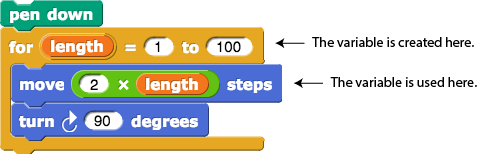
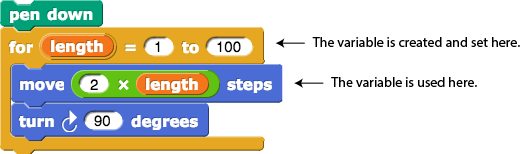
U1 - intro to vars cleanup per AC
intro to variables cleanup, addressing AC ruthless suggestions, clearing out old comments

diff --git a/cur/programming/1-introduction/3-drawing/6-the-for-block.html b/cur/programming/1-introduction/3-drawing/6-the-for-block.html
@@ -45,29 +45,33 @@
             <p>Computer scientists describe a repeating program structure as <em>looping</em>, <em>repetition</em>, or <strong>iteration</strong>.</p>
         </div>
 
-        <div class="takeNote">Sequencing (following steps in order), selection (deciding), and iteration (repeating) are building blocks of algorithms.  (See <a href="/bjc-r/cur/programming/1-introduction/2-gossip-and-greet/4-learning-names.html?topic=nyc_bjc%2F1-intro-loops.topic&course=bjc4nyc.html&novideo&noassignment#AP" title="Learning Player Names">Unit 1 Lab 2 Page 4: Learning Player Names </a> for a review of sequencing and selection.)</div>
+        <div class="takeNote">
+            <div class="todo">Brian wants to make this gray, but Mary doesn't want to make every EK gray... --MF, 1/31/19</div>
+            Sequencing (following steps in order), selection (deciding), and iteration (repeating) are building blocks of algorithms.  (See <a href="/bjc-r/cur/programming/1-introduction/2-gossip-and-greet/4-learning-names.html?topic=nyc_bjc%2F1-intro-loops.topic&course=bjc4nyc.html&novideo&noassignment#AP" title="Learning Player Names">Unit 1 Lab 2 Page 4: Learning Player Names </a> for a review of sequencing and selection.)
+        </div>
 
 
         <p>
-        	You can use <img src="/bjc-r/img/prog/for.png" class="imageCenter" alt="for(i)=(1) to (10){}" title="for(i)=(1) to (10){}" /> to name a variable (the default is <img class="inline" src="/bjc-r/img/blocks/variable-i.png" alt="i" title="i" />) that counts each repetition, and you can use that counter  variable in the repeating script. For example, the <code>for</code> block lets you simplify long scripts like: <br /> 
-            <div class="sidenote">Each time the <code>for</code> block  runs the script inside, it changes the value of the  variable by 1, counting from the first input number to the second.</div>   
+            Sometimes the script inside a loop needs to know which time through the loop it's in (first, second, etc.).
+            You can use <img src="/bjc-r/img/prog/for.png" class="imageCenter" alt="for(i)=(1) to (10){}" title="for(i)=(1) to (10){}" /> to keep track, and you can use its counter (the default name is <img class="inline" src="/bjc-r/img/blocks/variable-i.png" alt="i" title="i" />) in the repeated script. For example, the <code>for</code> block lets you simplify long scripts like: <br /> 
             <img class="indent" src="/bjc-r/img/looping/for-loop-equivalent.png" alt="say (1) for (2) secs, say (2) for (2) secs, say (3) for (2) secs... say (10) for (2) secs" title="say (1) for (2) secs, say (2) for (2) secs, say (3) for (2) secs... say (10) for (2) secs" />  
             &nbsp; &nbsp; &nbsp; to  
-            <img class=" noshadow" src="/bjc-r/img/looping/for-loop-drag-i.gif" alt="for (i)= (1) to (10) {say (i) for (2) secs}" title="for (i)= (1) to (10) {say (i) for (2) secs"} /> 
+            <img class="noshadow" src="/bjc-r/img/looping/for-loop-drag-i.gif" alt="for (i)= (1) to (10) {say (i) for (2) secs}" title="for (i)= (1) to (10) {say (i) for (2) secs}" /> 
 		</p>
+        <p>Each time the <code>for</code> block  runs the script inside, it changes the value of the counter by 1, beginning with the first input number and ending after the second.</p>   
 		
 
         <div class="endnote">
             <p class="center"><img class="inline" src="/bjc-r/img/icons/import-tools.png" alt="Import Tools" title="Import Tools" /></p>
-            In the current version of <span class="snap">snap</span>, the <code>for</code> block isn't installed automatically.  You'll need to import tools once into each new <span class="snap">snap</span> project where you need <code>for</code> and some other important tools. <br />
-          <img class="indent" src="/bjc-r/img/1-introduction/import-tools.png" alt="select 'Import tools' from the Snap! file menu" title="select 'Import tools' from the Snap! file menu" />
+            In the current version of <span class="snap">snap</span>, the <code>for</code> block isn't installed automatically.  You'll need to import tools once into each new <span class="snap">snap</span> project where you need <code>for</code> or some other important tools. <br />
+            <img class="indent" src="/bjc-r/img/1-introduction/import-tools.png" alt="select 'Import tools' from the Snap! file menu" title="select 'Import tools' from the Snap! file menu" />
         </div>
         
         
         <div class="forYouToDo" id="first">
             <ol>
                 <li>Click on the File <img src="/bjc-r/img/sys/button-file-menu.png" class="inline" style="height:1.7em;" alt="File menu icon" title="File menu icon" /> menu at the top of the <span class="snap">snap</span> window and select "Import Tools."</li>
-				<div class="takeNote">The <code>for</code> block gives you a default variable, <var>i</var> (for index). You can change the name of this variable by clicking it. Once changed, drag it out and use it  just like any variable.</div>
+                <div class="takeNote">The <code>for</code> block gives you a default counter name, <var>i</var> (for index). You can change this name by clicking it. To use the counter, drag it into the script.</div>
                 <li>
                 	Build this script that makes the sprite say the numbers 1 through 10. <br />
                 	<img class="indent" src="/bjc-r/img/1-introduction/for-i-1-10-say-i.png" alt="for (i) = (1) to (10) {say (i) for (2) secs}" title="for (i) = (1) to (10) {say (i) for (2) secs}" />
@@ -147,11 +151,10 @@
                             <img class="indent" src="/bjc-r/img/1-introduction/inspi-tests.png" alt="inspi with (1000,10,80), (1000,5,1), (1000,5,7), (1000,5,13), (1000,10,77)" title="inspi with (1000,10,80), (1000,5,1), (1000,5,7), (1000,5,13), (1000,10,77)" />
                         </li>
                         <!--<li>What's going on? Can you work out a theory to predict anything about the shape it draws for a particular angle input? <a id="hintbutton" onClick="document.getElementById('hintbutton').innerHTML='Think about divisibility.';">(Don't click unless you really, really need a super big hint.)</a></li>-->
-                        <li>What's going on? Can you work out a theory to predict anything about the shape it draws for a particular angle input? <a href="#hint-1" data-toggle="collapse" class="collapsed" title="Hint">(Don't click unless you need a big hint.)</a>
-          <div id="hint-1" class="collapse">
-             Hint: Think about divisibility.
-          </div></li>
-                        
+                        <li>
+                            What's going on? Can you work out a theory to predict anything about the shape it draws for a particular angle input? <a href="#hint-1" data-toggle="collapse" class="collapsed" title="Hint">(Don't click unless you need a big hint.)</a>
+                            <div id="hint-1" class="collapse">Hint: Think about divisibility.</div>
+                        </li>
                     </ol>
                 </li>  
             </ol>

diff --git a/cur/programming/1-introduction/3-drawing/3-blocks-with-inputs.html b/cur/programming/1-introduction/3-drawing/3-blocks-with-inputs.html
@@ -10,34 +10,12 @@
 	</head>
     
 	<body>
-    <div class="todo">
-        ST EK List:<br />
-        
-        2.2.1 Develop an abstraction when writing a program or creating other computational artifacts. [P2]<br />
-        2.2.1A The process of developing an abstraction involves removing detail and generalizing functionality.<br />
-        2.2.1B An abstraction extracts common features from specific examples in order to generalize concepts. <br />
-        2.2.1C An abstraction generalizes functionality with input parameters that allow software reuse.<br />
-        5.3.1D Procedures have names and may have parameters and return values.<br />
-        5.4.1G Examples of intended behavior on specific inputs help people understand what a program is supposed to do. <br />
-        
-        MF: 1.2.4 Collaborate in the creation of computational artifacts. [P6]<br />
-		
-        5.1.2D Program documentation helps programmers develop and maintain correct programs to efficiently solve problems. (with documentation)	<br />
-		5.1.2E Documentation about program components, such as segments and procedures, helps in developing and maintaining programs. (with documentation)<br />
-		5.1.2F Documentation helps in developing and maintaining programs when working individually or in collaborative programming environments. (with documentation)<br />
-        
-        </div>
         <h2>Blocks with Inputs</h2>
         <div class="todo">
             <h3>Ruthless Suggestions from Al</h3>
             <ul>
-                <li>In # 2, a: “Type the block name and the label for your variable”. As far as I can see, this is the first use of the word “variable.” Can we just use “input?”</li>
-                <ul>
-                  <li>Good catch! This should be carefully resolved. --MF, 5/16/18</li></ul>
-                <li>In # 2, a: The two bullets below the figs can be [← One way to save time is to texture the emphases; a good way to do this is to demote matters of convention.] demoted to sidenotes.</li>
-                <ul><li>Agreed, though I'd prefer one sidenote (singular). --MF, 5/16/18</li></ul>
                 <li>Before we said that a TiF is hard. We should discuss what “hard” means. But this one seems like a ITT to me.</li>
-                <ul><li>Again, this is on our list for 6/5/18 discussion. --MF, 5/16/18</li></ul>
+                <ul><li>TIF is actually not possible at this point in the course and has been commented out until we fix that. --MF, 1/31/19 (with Brian)</li></ul>
             </ul>
         </div>
         <div class="learn">
@@ -83,15 +61,15 @@
                         <h4><strong>Making a Block with an Input</strong></h4>
                         <ol type="a">
                             <li>
-                                <strong>Type the block name and the label for your variable</strong> in the "Make a block" dialog box, and click OK. For this project, type <code>pinwheel, branches:</code><br />
+                                <strong>Type the block name and the label for your input</strong> in the "Make a block" dialog box, and click OK. For this project, type <code>pinwheel, branches:</code><br />
                                 <img class="indent" src="/bjc-r/img/1-introduction/Blockswith-Inputs_img/category.png" height="300" alt="Make a block" title="Make a block"/>
-                                <ul>
-                                    <li>This block is about <em>moving</em> your sprite, so you might choose the blue Motion palette. Or just leave it gray.</li>
-                                    <li>Using a comma and a colon are not requirements; they are here to help with clarity.</li>
-                                </ul>
+                                <div class="endnote">
+                                    <p>This block is about <em>moving</em> your sprite, so you might choose the blue Motion palette. Or just leave it gray.</p>
+                                    <p>Using a comma and a colon are not requirements; they are here to help with clarity.</p>
+                                </div>
                             </li>
                             <li>
-                                <strong>Click the + (plus sign) after "<code>branches:</code>", type the name of the input</strong>, and click OK to add the variable input slot. For <code>pinwheel</code>, click the + after "branches:" and type <var>number of branches</var> as the name of your input variable.<br />
+                                <strong>Click the + (plus sign) after "<code>branches:</code>", type the name of the input</strong>, and click OK to add the input slot. For <code>pinwheel</code>, click the + after "branches:" and type <var>number of branches</var> as the name of your input.<br />
                                 <img class="indent" src="/bjc-r/img/1-introduction/Blockswith-Inputs_img/plusSign.png" height="75" alt="Plus sign" title="Plus sign" />
                                 <img class="indent" src="/bjc-r/img/1-introduction/Blockswith-Inputs_img/inputName.png" height="175" alt="Creat input name" title="Create input name" />
                             </li>
@@ -142,6 +120,7 @@
         </div>
 
 
+        <div class="todo">Solution file has <code>pinwheel</code> version from later page in TIF. Solutions need careful review. Also these TIFs can't be done at this point in the curriculum. TG and solutions file need to match whatever is done. --MF, 1/31/19
         <div class="takeItFurther">
             <ol type="A">
                 <li>
@@ -152,6 +131,7 @@
                 </li>
                 <li>Make the animation at the top of this page.</li>
             </ol>
+        </div>
         </div>
 
 

diff --git a/cur/programming/1-introduction/3-drawing/4-modify-your-pinwheel.html b/cur/programming/1-introduction/3-drawing/4-modify-your-pinwheel.html
@@ -36,7 +36,7 @@
         </div>
         
         <h3>Adding Multiple Inputs</h3>
-        <p>Recall how you first <em>generalized</em> your original pinwheel script: you added an input variable called <var>branches</var> that controlled the turning angle of the sprite. By adding <em>more</em> input variables, you can generalize other aspects of your program...</p>
+        <p>Recall how you first <em>generalized</em> your original pinwheel script: you added an input called <var>branches</var> that controlled the turning angle of the sprite. By adding <em>more</em> inputs, you can generalize other aspects of your program...</p>
         <div class="forYouToDo" id="first">
 			<ol>
                 <li>If it isn't already open, open your U1L3-Pinwheel project.</li>
@@ -58,16 +58,14 @@
                 	</ol>
                 </li>
                 <li>
-               	  <div class="sidenote">Review how to add an input at <a href="/bjc-r/cur/programming/1-introduction/3-drawing/3-blocks-with-inputs.html?topic=nyc_bjc%2F1-intro-loops.topic&course=bjc4nyc.html&novideo&noassignment" title="Blocks with Inputs">Unit 1 Lab 3 Page 3: Blocks with Input</a>, if needed.</div>
-                    Add a <em>second input variable</em> to control the amount of "backing up" that the sprite does before each turn through the full 360&deg;.
+                    <div class="sidenote">Review how to add an input at <a href="/bjc-r/cur/programming/1-introduction/3-drawing/3-blocks-with-inputs.html?topic=nyc_bjc%2F1-intro-loops.topic&course=bjc4nyc.html&novideo&noassignment" title="Blocks with Inputs">Unit 1 Lab 3 Page 3: Blocks with Input</a>, if needed.</div>
+                    Add a <em>second input</em> to control the amount of "backing up" that the sprite does before each turn through the full 360&deg;.
                 	<ol>
-                    <!--<li>First, go to the Settings menu (<img class="inline" src="/bjc-r/img/1-introduction/settings_button.png" alt="Settings menu icon" title="Settings menu icon" />), and make sure that "Plain prototype labels" are <em>un-checked</em>. (This will allow you to see the "+" signs in the next step.)</li>-->
-						
                         <li>Edit your <code>pinwheel</code> block, then click the "+" sign at the end to add an input <strong>label</strong> (<strong>choose "Title text"</strong>). Type <code>backup:</code> as shown below, and click "OK".</li>
                         <img class="indent" src="/bjc-r/img/1-introduction/create-input-name.jpg" alt="typing 'backup:' as Title text into Block Editor's Create input name window" title="typing 'backup:' as Title text into Block Editor's Create input name window" />
-                        <li>Then click the "+" sign at the end <em>again</em> to add an input <strong>variable</strong> (<strong>choose "Input name"</strong>), and call it <var>backup</var>.</li>
-                        <li>Drag off the new <var>backup</var> variable, place it where it belongs in the <code>pinwheel</code> code, and press "OK" or "Apply."</li>
-                        <li>Check that changing the <var>backup</var> input when running the <code>pinwheel</code> block gives the correct result. Debug any problems.</li>
+                        <li>Then click the "+" sign at the end <em>again</em> to add an input (choose "Input name"), and call it <var>backup</var>.</li>
+                        <li>Drag off the new <var>backup</var> input, place it where it belongs in the <code>pinwheel</code> code, and press "OK" or "Apply."</li>
+                        <li>Check that changing the <var>backup</var> input value when running the <code>pinwheel</code> block gives the correct result. Debug any problems.</li>
                     </ol>
                 </li>
 	            <div class="sidenote">Use an Operator block.</div>
@@ -77,9 +75,8 @@
         
         <img class="inline" src="/bjc-r/img/icons/pair-programming-swap.png" alt="Pair Programming Swap" title="Pair Programming Swap" /> 
         
-         <div class="takeNote">
+        <div class="takeNote">
             <h4><strong>Debugging Tip: Organizing Your Code</strong></h4>
-            
             <p>
                 A great way to avoid having bugs in your program in the first place is to keep your code organized by deleting any unused blocks to avoid clutter. Here are examples of messy code and neatly organized code with comments. <br />
                 <img class="indent" src="/bjc-r/img/1-introduction/messy-code.png" width="550" alt="Example of messy code with loose scripts all over the place." title="Example of messy code with loose scripts all over the place."/>

diff --git a/cur/programming/1-introduction/3-drawing/5-remix-your-pinwheel.html b/cur/programming/1-introduction/3-drawing/5-remix-your-pinwheel.html
@@ -10,16 +10,7 @@
 	</head>
 
 	<body>
-    <div class="todo">
-        ST EK List:<br />
-        1.2.3A Creating computational artifacts can be done by combining and modifying existing artifacts or by creating new artifacts. <br />
-        5.3.1 Use abstraction to manage complexity in programs. [P3]<br />
-        5.3.1E Parameterization can generalize a specific solution.<br />
-        5.3.1F Parameters generalize a solution by allowing a function to be used instead of duplicated code.<br />
-        5.3.1G Parameters provide different values as input to procedures when they are called in a program. <br />
-        MF: 1.2.4 Collaborate in the creation of computational artifacts. [P6]
-        </div>
-		<h2>Remix Your Pinwheel</h2>
+        <h2>Remix Your Pinwheel</h2>
         <div class="todo">
             <h3>Ruthless Suggestions from Al</h3>
             <ul>
@@ -53,7 +44,7 @@
                 <li>
                     Use your <code>pinwheel</code> block to create a more specialized <code>asterisk</code> block.
                     <ol>
-                        <li>First, make a new block called <code>asterisk</code> with two variables: one for the <var>number of branches</var> and one for the <var>length</var> of each branch.  You may wish to review how to make a new block at <a href="/bjc-r/cur/programming/1-introduction/2-gossip-and-greet/3-making-a-new-block.html?topic=nyc_bjc%2F1-intro-loops.topic&course=bjc4nyc.html&novideo&noassignment" title="Making Your Own Block">Unit 1 Lab 2 Page 3: Making Your Own Block</a>.</li>
+                        <li>First, make a new block called <code>asterisk</code> with two inputs: one for the <var>number of branches</var> and one for the <var>length</var> of each branch.  You may wish to review how to make a new block at <a href="/bjc-r/cur/programming/1-introduction/2-gossip-and-greet/3-making-a-new-block.html?topic=nyc_bjc%2F1-intro-loops.topic&course=bjc4nyc.html&novideo&noassignment" title="Making Your Own Block">Unit 1 Lab 2 Page 3: Making Your Own Block</a>.</li>
                   <img src="/bjc-r/img/1-introduction/asterisk-using-pinwheel.png" width="507" height="106" alt="asterisk, branches:(branches) branch length:(length){pinwheel, branches: ( ) size:( ) backup:( )}" title="asterisk, branches:(branches) branch length:(length){pinwheel, branches: ( ) size:( ) backup:( )}"/> 
                         <li>Now fill in the three inputs to <code>pinwheel</code> so that it correctly draws an asterisk.</li>
                         

diff --git a/cur/programming/1-introduction/5-follow-the-leader/2-sprite-interaction.html b/cur/programming/1-introduction/5-follow-the-leader/2-sprite-interaction.html
@@ -55,6 +55,10 @@
                 
         <div class="examFullWidth">
             <div class="comment">AAP-2.K.3</div>
+            <div class="sidenoteBig">
+                <p>The language used on the AP Exam doesn't allow spaces for names of inputs (such as <var>number of fish</var>) or programmer-defined procedures (such as <code>mouse y</code>).</p>
+                <div class="pseudop">The reason for the <pre class="inline">()</pre> after <pre class="inline">MouseY</pre> is that it's a procedure call even though it doesn't take any inputs.</div>
+            </div>
             <p>
                 The script<br />
                 <img class="indent" src="/bjc-r/img/1-introduction/example-repeat-until.png" alt="repeat until (mouse y < 0) {say (number of fish)}" title="repeat until (mouse y < 0) {say (number of fish)}" /><br />
@@ -65,10 +69,6 @@
     DISPLAY (numFish)
 }</pre>
             </p>
-            <div class="endnote">
-                <p>The language used on the AP Exam can't have spaces in variable names (such as <var>number of fish</var>) or procedure names (such as <code>mouse y</code>).</p>
-                <div class="pseudop">The reason for the <pre class="inline">()</pre> after <pre class="inline">MouseY</pre> is that it's a procedure call even though it doesn't take any inputs.</div>
-            </div>
         </div>
 
         <div class="forYouToDo">
@@ -87,7 +87,6 @@
                     <div class="sidenoteBig">Please note that the <code>tell</code> block looks slightly different than it does in this image. It is now a one-line block. This image will be updated soon.</div>
                     <img class="inline" src="/bjc-r/img/1-introduction/simpledialogue-going-to-lunch.png" alt="Simple dialogue about going to lunch" title="Simple dialogue about going to lunch" /> 
 				</li>
-                
             </ol>
             <div class="endnote">To prevent the two sprites from being stuck to each other unable to move, the sprites will need some space between them and some time apart before the chase starts.  Blocks such as these may help.<br />
             <img class="indent" src="/bjc-r/img/1-introduction/U1ImageVideoAddendum_img/U1L5p2-PuppySeparation.png" height="90" alt="go to x:(-200) y:(-50); wait (1) secs & go to x:(200) y:(-50); wait (1) secs" title="go to x:(-200) y:(-50); wait (1) secs & go to x:(200) y:(-50); wait (1) secs"/>

diff --git a/cur/programming/1-introduction/2-gossip-and-greet/4-learning-names.html b/cur/programming/1-introduction/2-gossip-and-greet/4-learning-names.html
@@ -21,7 +21,6 @@
 		<div class="todo">
             <strong>BH/PG/AC/MF FP meeting (6/18/18):</strong> 
             <p>Animation should be redone so that the name is added to the list before the greeting is said. Also, change the sprite costume so that it's not a child younger than our students. --MF, 6/18/18</p>
-            <p>This appears is the first place where we talk about global variables; we should have a vocab box. --MF, 6/18/18</p>
             <p><s>Move this to U2 in place of 2.1.4, which should be junked except for the pieces that are needed for 2.2.3. --MF, 6/18/18</s><ul><li>This turned out to be more complicated than expected and we decided not to do it. --MF, 11/7/18</li></ul></p>
             <p>Brian wants to correct the definition of sequencing in the vocab box. --MF, 11/7/18</p>
         </div>
